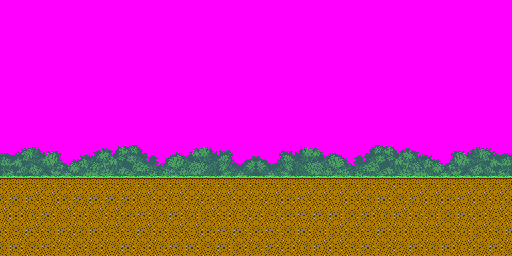
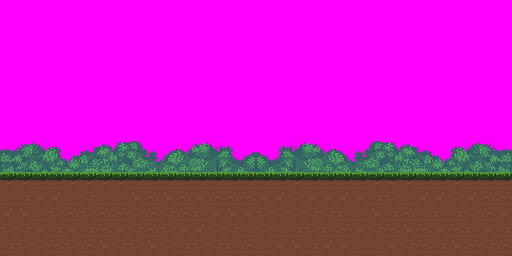
Suelo con banda de hierba gruesa y pies hundidos 4 px
- Nuevo tileset Sidescroller de Pixellab con una banda de hierba de ~8 px. Con la raya
  de 2 px anterior el perro parecia flotar: su arte es una vista lateral un poco
  elevada (patas lejanas 3 px mas arriba que las cercanas).
- preparar_suelo.py: ancla la primera fila LLENA de la banda (las briznas sueltas
  asoman por encima) en SUELO_Y - hundir; --hundir 4 por defecto, asi los pies (fila
  175) quedan dentro de la hierba. Sin hoja explicita usa el PNG mas reciente de la
  carpeta. 2 pruebas nuevas (matas y hundimiento); scripts 24/24.
- res/nivel1/fondo_cerca.png regenerada: banda desde la fila 172, 15 colores +
  transparente, ~309 tiles. SUELO_Y y la fisica no cambian.
- Verificado en Mesen: Tarou de pie con las patas dentro de la banda. Caminar no se
  pudo comprobar: el script de capturas perdio las flechas con el equipo en uso.
- Documentacion: spec (5 y 8), mapa de archivos, CLAUDE.md y README del suelo.

diff --git a/scripts/preparar_suelo.py b/scripts/preparar_suelo.py
@@ -9,8 +9,11 @@
       16x16 con muchas piezas de plataforma. Para un suelo plano bastan dos
       tipos: el BORDE (filas de arriba vacías, hierba, tierra debajo) y la
       TIERRA (un tile opaco). Este script los encuentra solo, pinta con ellos
-      una franja de suelo de 512 px de ancho cuya hierba empieza exactamente en
-      la fila SUELO_Y del juego, rellena de tierra hasta abajo y varía la
+      una franja de suelo de 512 px de ancho cuya banda de hierba empieza en la
+      fila SUELO_Y del juego menos HUNDIR píxeles (los pies del protagonista
+      quedan DENTRO de la hierba, no posados sobre su borde: el arte de
+      Pixellab es una vista lateral un poco elevada y sus patas lejanas acaban
+      3 px más arriba que las cercanas), rellena de tierra hasta abajo y varía la
       tierra con volteos (gratis en el mapa de la SNES) para que no se vean
       franjas. Opcionalmente pone detrás los arbustos del título subidos, como
       un seto. El resultado es una imagen indexada de 15 colores + transparente
@@ -37,10 +40,12 @@
       ALTO       int   256 px   alto de la imagen (224 visibles + relleno para -y)
       VISIBLE    int   224 px   filas que se ven en pantalla
       SEMILLA    int   2026     semilla fija de la variación (salida reproducible)
+      HUNDIR     int   4 px     cuánto se hunden los pies en la hierba (opción --hundir)
 
     Uso (desde la raíz del repo):
       python scripts/preparar_suelo.py --seto res/titulo/fondo_cerca.png
-      python scripts/preparar_suelo.py RUTA_HOJA.png --suelo 176 --salida res/nivel1/fondo_cerca.png
+      python scripts/preparar_suelo.py RUTA_HOJA.png --suelo 176 --hundir 4 --salida res/nivel1/fondo_cerca.png
+      Sin RUTA_HOJA usa el PNG MÁS RECIENTE de res/descargas/graficos/pixellab/suelo/.
     → glosario: Tile, Tilemap, Paleta, Parallax, Suelo
 ---------------------------------------------------------------------------------
 """
@@ -60,6 +65,7 @@ ANCHO = 512
 ALTO = 256
 VISIBLE = 224
 SEMILLA = 2026
+HUNDIR = 4
 CARPETA = Path("res/descargas/graficos/pixellab/suelo")
 
 
@@ -119,16 +125,22 @@ def reducir(colores: list, n: int) -> list:
 
 # --- 3. Todo junto -------------------------------------------------------------------
 
-def preparar(hoja_ruta: Path, salida: Path, suelo_y: int = 176, seto: Path | None = None) -> None:
-    """Escribe la capa cercana: (seto) + borde con la hierba en la fila suelo_y +
-    tierra variada hasta abajo. No escribe nada si la hoja no tiene bordes o tierra."""
+def preparar(hoja_ruta: Path, salida: Path, suelo_y: int = 176, seto: Path | None = None,
+             hundir: int = 0) -> None:
+    """Escribe la capa cercana: (seto) + borde con la banda de hierba empezando en la
+    fila suelo_y - hundir + tierra variada hasta abajo. No escribe nada si la hoja
+    no tiene bordes o tierra."""
     with Image.open(hoja_ruta) as im:
         hoja = im.convert("RGBA")
     bordes, tierras = clasificar(hoja)
     if not bordes or not tierras:
         sys.exit(f"ERROR: {hoja_ruta} no tiene tiles de borde (hierba sobre tierra) o de tierra "
                  f"opaca de {T}x{T}. ¿Es una exportación Sidescroller? No se escribió nada.")
-    r0 = min(next(y for y, n in enumerate(opacos(t)) if n) for t in bordes)   # primera fila con hierba
+    # Fila del tile donde empieza la BANDA de hierba: la primera fila llena (16 píxeles
+    # opacos) en todos los tiles de la tira. Las briznas sueltas de más arriba no
+    # cuentan: asoman por encima del suelo, como en el arte.
+    r0 = max(next(y for y, n in enumerate(opacos(t)) if n == T) for t in bordes)
+    arriba = suelo_y - hundir                          # fila de pantalla donde empieza la banda
 
     capa = Image.new("RGBA", (ANCHO, ALTO), (0, 0, 0, 0))
     colores_seto = []
@@ -144,11 +156,11 @@ def preparar(hoja_ruta: Path, salida: Path, suelo_y: int = 176, seto: Path | Non
                 arbustos.putalpha(Image.eval(indices, lambda i: 255 if i else 0))
         caja = arbustos.getchannel("A").getbbox()
         if caja:
-            subir = caja[3] - (suelo_y + T)
+            subir = caja[3] - (arriba + T)
             capa.alpha_composite(arbustos.crop((0, subir, arbustos.width, arbustos.height)), (0, 0))
             colores_seto = sorted({p[:3] for p in (arbustos.get_flattened_data() if hasattr(arbustos, "get_flattened_data") else arbustos.getdata()) if p[3] > 0})
 
-    y_borde = suelo_y - r0                             # la fila r0 del tile cae en suelo_y
+    y_borde = arriba - r0                              # la fila r0 del tile cae en "arriba"
     for k in range(ANCHO // T):
         capa.alpha_composite(bordes[k % len(bordes)], (k * T, y_borde))
     azar = random.Random(SEMILLA)
@@ -162,23 +174,25 @@ def preparar(hoja_ruta: Path, salida: Path, suelo_y: int = 176, seto: Path | Non
         y += T
 
     # Paleta: el seto conserva sus colores; el suelo se reduce a lo que quede de 15.
-    suelo = capa.crop((0, suelo_y, ANCHO, VISIBLE))
+    suelo = capa.crop((0, arriba - r0, ANCHO, VISIBLE))   # con las briznas
     datos = suelo.get_flattened_data() if hasattr(suelo, "get_flattened_data") else suelo.getdata()
     colores_suelo = reducir([p[:3] for p in datos if p[3] > 0], pp.COLORES - len(colores_seto))
     colores = colores_seto + [c for c in colores_suelo if c not in colores_seto]
     salida.parent.mkdir(parents=True, exist_ok=True)
     pp.indexar(capa, colores).save(salida, format="PNG")
     print(f"  {salida}  {ANCHO}x{ALTO}; borde de {len(bordes)} tiles, {len(tierras)} de tierra; "
-          f"hierba en la fila {suelo_y}; {len(colores)} colores + transparente"
+          f"banda de hierba desde la fila {arriba} (pies en {suelo_y - 1}, hundidos {hundir}); "
+          f"{len(colores)} colores + transparente"
           + (f" (seto: {len(colores_seto)})" if colores_seto else ""))
 
 
 def main() -> int:
     ap = argparse.ArgumentParser(description="Capa cercana del nivel 1: suelo de Pixellab (+ seto).")
     ap.add_argument("hoja", type=Path, nargs="?", default=None,
-                    help=f"hoja de tiles de Pixellab (por defecto, el primer PNG de {CARPETA})")
+                    help=f"hoja de tiles de Pixellab (por defecto, el PNG más reciente de {CARPETA})")
     ap.add_argument("--salida", type=Path, default=Path("res/nivel1/fondo_cerca.png"))
-    ap.add_argument("--suelo", type=int, default=176, help="fila donde empieza la hierba (SUELO_Y del juego)")
+    ap.add_argument("--suelo", type=int, default=176, help="SUELO_Y del juego: los pies acaban en la fila anterior")
+    ap.add_argument("--hundir", type=int, default=HUNDIR, help="píxeles que los pies se hunden en la hierba")
     ap.add_argument("--seto", type=Path, default=None, help="arbustos a poner detrás (p. ej. res/titulo/fondo_cerca.png)")
     args = ap.parse_args()
     hoja = args.hoja
@@ -186,9 +200,9 @@ def main() -> int:
         pngs = sorted(CARPETA.glob("*.png"))
         if not pngs:
             sys.exit(f"ERROR: no hay ningún PNG en {CARPETA}")
-        hoja = pngs[0]
+        hoja = max(pngs, key=lambda p: p.stat().st_mtime)   # la última exportación
     print(f"[suelo] hoja: {hoja}")
-    preparar(hoja, args.salida, args.suelo, args.seto)
+    preparar(hoja, args.salida, args.suelo, args.seto, args.hundir)
     return 0
 
 

diff --git a/scripts/pruebas/prueba_preparar_suelo.py b/scripts/pruebas/prueba_preparar_suelo.py
@@ -30,10 +30,13 @@ PIEDRA = (150, 150, 150, 255)
 OSCURO = (70, 40, 10, 255)
 
 
-def hoja_falsa(ruta: Path, con_borde: bool = True) -> None:
+def hoja_falsa(ruta: Path, con_borde: bool = True, matas: bool = False) -> None:
     """Hoja de 8x4 tiles: BORDE en la fila 3 (columnas 0..3) y TIERRA en la fila 0
     (columnas 6 y 7, con una piedra en la esquina para que los volteos se noten).
-    El resto, transparente o con formas que no son ni borde ni tierra."""
+    El resto, transparente o con formas que no son ni borde ni tierra. Con
+    matas=True, algunas columnas del borde tienen briznas sueltas en las filas 5..7
+    del tile, por encima de la banda llena (como la hoja de Pixellab con hierba
+    gruesa)."""
     im = Image.new("RGBA", (8 * T, 4 * T), (0, 0, 0, 0))
     d = ImageDraw.Draw(im)
     if con_borde:
@@ -41,6 +44,8 @@ def hoja_falsa(ruta: Path, con_borde: bool = True) -> None:
             x = c * T
             d.rectangle((x, 3 * T + 8, x + T - 1, 3 * T + 9), fill=VERDE)       # hierba: filas 8..9
             d.rectangle((x, 3 * T + 10, x + T - 1, 4 * T - 1), fill=MARRON)     # tierra: filas 10..15
+            if matas:
+                d.rectangle((x + 3, 3 * T + 5, x + 3, 3 * T + 7), fill=VERDE)    # brizna: filas 5..7
     for c in (6, 7):
         x = c * T
         d.rectangle((x, 0, x + T - 1, T - 1), fill=MARRON)
@@ -126,6 +131,28 @@ class PruebasPrepararSuelo(unittest.TestCase):
         a = self.salida.read_bytes()
         ps.preparar(self.hoja, self.salida, suelo_y=176)
         self.assertEqual(a, self.salida.read_bytes())
+
+    def test_matas_sobre_la_banda(self):
+        """Las briznas sueltas que asoman por encima de la hierba no cuentan: lo que
+        cae en la fila del suelo es la primera fila LLENA de la banda."""
+        hoja_falsa(self.hoja, matas=True)
+        ps.preparar(self.hoja, self.salida, suelo_y=176)
+        with Image.open(self.salida) as im:
+            px = im.load()
+            primera_llena = next(y for y in range(224) if all(px[x, y] for x in range(512)))
+            self.assertEqual(primera_llena, 176)
+            self.assertTrue(any(px[x, 173] for x in range(512)))     # las briznas, por encima
+
+    def test_hundir(self):
+        """Con hundir=4 la banda de hierba empieza 4 px por encima de la fila del
+        suelo: los pies del protagonista (que acaban en suelo_y - 1) quedan dentro
+        de la hierba y no posados sobre su borde. Hace falta porque el arte de
+        Pixellab es una vista lateral un poco elevada."""
+        ps.preparar(self.hoja, self.salida, suelo_y=176, hundir=4)
+        with Image.open(self.salida) as im:
+            px = im.load()
+            primera_llena = next(y for y in range(224) if all(px[x, y] for x in range(512)))
+            self.assertEqual(primera_llena, 172)
 
     def test_seto_detras_del_suelo(self):
         """Con --seto, los arbustos asoman por ENCIMA del suelo (subidos para que su

diff --git a/docs/mapa-de-archivos.md b/docs/mapa-de-archivos.md
@@ -148,7 +148,7 @@ salidas (`.pic` tiles, `.pal` paleta, `.map` mapa, `.inc`/`_meta.inc` tablas,
 | `res/intro/escena_1.png`, `escena_2.png`, `escena_3.png` | Fondos de la intro: 1 y 2 de 256 colores (Mode 3, imagen 256×120 arriba), 3 de 16 colores. | `componer_escenas.py` | Makefile, `data.asm`, `pantalla_intro.c` |
 | `res/titulo/fondo_cerca.png` (512×256), `fondo_lejos.png` (256×224), `cielo.bmp` | Capas del título (cercana en bucle para scroll, lejana con el logotipo "TAROU" horneado) y el degradado del cielo (una fila de color por línea). | `componer_escenas.py` | Makefile (`-y` para la cercana, `-n` para el cielo), `data.asm`, `pantalla_titulo.c`; la cercana también la usa el nivel |
 | `res/nivel1/fondo_lejos.png` (512×256) | Capa lejana del nivel: la del título sin logotipo, en espejo hasta 512 px, rellena hasta 256 de alto (`gfx4snes -y` lo exige). | `scripts/preparar_fondo_nivel.py` | Makefile (`-y -e 2`), `data.asm` (`nivel1_lejos_*`), `pantalla_nivel1.c` |
-| `res/nivel1/fondo_cerca.png` (512×256) | Capa cercana del nivel: el suelo del tileset Sidescroller de Pixellab (hierba en la fila 176, tierra variada con volteos) con el seto de arbustos detrás; 13 colores + transparente. | `scripts/preparar_suelo.py --seto res/titulo/fondo_cerca.png` | Makefile (`-y -e 1`), `data.asm` (`.rodata_nivel1_cerca`), `pantalla_nivel1.c` (BG0) |
+| `res/nivel1/fondo_cerca.png` (512×256) | Capa cercana del nivel: el suelo del tileset Sidescroller de Pixellab (banda de hierba desde la fila 172, 4 px por encima de los pies; tierra variada con volteos) con el seto de arbustos detrás; 15 colores + transparente. | `scripts/preparar_suelo.py --seto res/titulo/fondo_cerca.png` | Makefile (`-y -e 1`), `data.asm` (`.rodata_nivel1_cerca`), `pantalla_nivel1.c` (BG0) |
 | `res/personajes/tarou/tarou_reposo.png`, `tarou_caminar.png`, `tarou_correr.png`, `tarou_saltar.png`, `tarou_caer.png`, `tarou_agachado.png`, `tarou_agachado_caminar.png`, `tarou_desenvainar.png`, `tarou_envainar.png`, `tarou_atacar.png`, `tarou_echarse.png`, `tarou_dormido.png`, `tarou_despertar.png`, `tarou_reposo_estatico.png`, `tarou_anim.h` | Tiras de 96×64 por cuadro de las 13 animaciones de Tarou, una sola paleta (arte real de Pixellab desde el 2026-10-19), la tira estática de reposo (siempre 2 cuadros elegidos del reposo real, para intro y título) y el header con la cantidad de cuadros. | `scripts/preparar_personaje.py tarou` | Makefile (`-s 32 -T -X 96 -Y 64 -P 3`), `data.asm` (14 secciones), `tarou_sprite.c` (`_meta.inc`), `animaciones.c` (`tarou_anim.h`), `personajes.c` (`tarou_reposo_estatico`) |
 | `res/personajes/barbara_samurai.png` | Bárbara (samurái del pack), tira de cuadros de 64×64. | `scripts/preparar_sprites.py` | Makefile (`-s 64`), `data.asm`, `personajes.c` |
 | `res/personajes/lobo_samurai.png` | El lobo samurái del pack: antes era Tarou; futuro enemigo. Se convierte pero **no va en la ROM**. | `preparar_sprites.py` | Makefile (regla conservada) |
@@ -165,7 +165,7 @@ salidas (`.pic` tiles, `.pal` paleta, `.map` mapa, `.inc`/`_meta.inc` tablas,
 | `preparar_sprites.py` | Corta una tira de cuadros, la centra en celdas (64×64 por defecto) y la reduce a 15 colores + transparente (índice 0). Es el script de Bárbara y del lobo. | tira → `res/personajes/*.png` |
 | `preparar_personaje.py` | El pipeline de Tarou (y de Bárbara en la Revisión 2): lee la exportación nativa de Pixellab (con `MAPEOS_PIXELLAB`: de qué estado, dirección y tramo sale cada animación, y si va al revés; ancla sin escalar en celdas de 96×64) o tiras PNG, carpetas de cuadros o GIF, alinea con una caja común, cuantiza **todas** las animaciones a una sola paleta, genera marcadores para las que faltan, rechaza más de 15 cuadros y escribe `tarou_anim.h`. | `res/descargas/graficos/pixellab/tarou/` → `res/personajes/tarou/` |
 | `preparar_fondo_nivel.py` | Borra una caja (el logotipo) de la capa lejana del título, la duplica en espejo a 512 px y la rellena hasta 256 de alto. | `res/titulo/fondo_lejos.png` → `res/nivel1/fondo_lejos.png` |
-| `preparar_suelo.py` | Construye la capa cercana del nivel desde el tileset Sidescroller de Pixellab: encuentra solo los tiles de borde (hierba sobre tierra) y de tierra, pinta 512 px con la hierba en `SUELO_Y`, varía la tierra con volteos (semilla fija) y, con `--seto`, pone detrás los arbustos del título. | Lee `res/descargas/graficos/pixellab/suelo/*.png`; escribe `res/nivel1/fondo_cerca.png`; usa `preparar_personaje.indexar`. | ninguno |
+| `preparar_suelo.py` | Construye la capa cercana del nivel desde el tileset Sidescroller de Pixellab: encuentra solo los tiles de borde (hierba sobre tierra) y de tierra, pinta 512 px con la banda de hierba en `SUELO_Y − hundir` (4 px por defecto: los pies quedan dentro de la hierba; ancla la primera fila llena, no las briznas), varía la tierra con volteos (semilla fija) y, con `--seto`, pone detrás los arbustos del título. | Lee `res/descargas/graficos/pixellab/suelo/*.png`; escribe `res/nivel1/fondo_cerca.png`; usa `preparar_personaje.indexar`. | ninguno |
 | `pruebas/prueba_preparar_personaje.py`, `pruebas/prueba_preparar_fondo_nivel.py`, `pruebas/prueba_preparar_suelo.py` | Pruebas `unittest` de los tres scripts anteriores (`python -m unittest scripts/pruebas/...`). | — |
 | `capturar_mesen.ps1` | Verificación sin manos: lanza Mesen a velocidad 100 % sin guardar ajustes, lo activa una vez, le da el foco al visor con un clic por mensaje, aparta la ventana fuera de la pantalla, "pulsa" teclas por `PostMessage` según un guion (`-Guion "desde,hasta,tecla;..."`) y guarda capturas con `PrintWindow` cada N segundos. | `ProyectoSNES.sfc` → `scripts/capturas/frame_*.png` |
 | `capturas_mesen.lua`, `mando_nivel.lua` | Scripts Lua para Mesen: capturas y mando por guion. **Solo a mano** desde Debug → Script Window: MesenCE 2.2.1 no carga la ROM si recibe un `.lua` por línea de comandos y bloquea la E/S de Lua. | — |

diff --git a/CLAUDE.md b/CLAUDE.md
@@ -49,7 +49,7 @@ $env:PVSNESLIB_HOME="/e/ProyectoSNES/tools/pvsneslib"; $env:PATH="E:\ProyectoSNE
 
 The equivalent VS Code tasks (`.vscode/tasks.json`) run these same `make` invocations through `C:\msys64\usr\bin\bash.exe`: **"Build SNES ROM"** (default build task, `Ctrl+Shift+B`; it only compiles, it does not launch Mesen) and **"Clean Project"**.
 
-What the current ROM does when run (Revisión 1, 2026-10-19): the boot sequence (Nintendo → publisher → devs → dedication → 3-scene intro → title with parallax; the title appears at ~50 s and loops to the intro after 15 s without input), then Start on the title enters **level 1**: Tarou (adult husky, the real Pixellab art in 96x64 cells; the attack is a fixed pose until an attack animation is generated) walks, runs (Y), jumps with variable height (B), crouches and crouch-walks (Down), unsheathes/sheathes the sword (R), attacks (A), and falls asleep after 10 s idle; the camera follows across a 512 px flat level (Pixellab ground with a hedge behind, grass at row 176) with parallax; SELECT toggles the debug HUD (position, velocity, state, camera, hitbox, frame counter and scanline cost meter); START returns to the title. Design: `docs/diseno-demo-jugable.md`. Keyboard mapping of Mesen on this machine: arrows, A=S, B=A, X=X, Y=Z, L=Q, R=W, Start=D, Select=E (`docs/mesen-y-depuracion.md`). The capture script forces `EmulationSpeed=100` and `AllowBackgroundInput=true` on the command line; neither is saved to the author's settings. The scripted keys can still be lost (Mesen's focus jumps to its menu bar) while the author uses the PC: the reliable condition is to leave the PC alone during a run; the effect of `AllowBackgroundInput` is not proven.
+What the current ROM does when run (Revisión 1, 2026-10-19): the boot sequence (Nintendo → publisher → devs → dedication → 3-scene intro → title with parallax; the title appears at ~50 s and loops to the intro after 15 s without input), then Start on the title enters **level 1**: Tarou (adult husky, the real Pixellab art in 96x64 cells; the attack is a fixed pose until an attack animation is generated) walks, runs (Y), jumps with variable height (B), crouches and crouch-walks (Down), unsheathes/sheathes the sword (R), attacks (A), and falls asleep after 10 s idle; the camera follows across a 512 px flat level (Pixellab ground with a hedge behind, feet 4 px into the grass band) with parallax; SELECT toggles the debug HUD (position, velocity, state, camera, hitbox, frame counter and scanline cost meter); START returns to the title. Design: `docs/diseno-demo-jugable.md`. Keyboard mapping of Mesen on this machine: arrows, A=S, B=A, X=X, Y=Z, L=Q, R=W, Start=D, Select=E (`docs/mesen-y-depuracion.md`). The capture script forces `EmulationSpeed=100` and `AllowBackgroundInput=true` on the command line; neither is saved to the author's settings. The scripted keys can still be lost (Mesen's focus jumps to its menu bar) while the author uses the PC: the reliable condition is to leave the PC alone during a run; the effect of `AllowBackgroundInput` is not proven.
 
 Tests: the pure game logic has a PC test suite (gcc, 195 checks) and the asset scripts have `unittest` tests. Run before every commit that touches `src/juego/` or `scripts/`:
 ```
@@ -60,7 +60,7 @@ Mesen verification without hands (window captures every N seconds, optionally st
 ```
 .\scripts\capturar_mesen.ps1 -Duracion 70 -Cada 1 -Espera 4 -Guion "55,55.3,Start;57,57.3,Select;58,61,Right"
 ```
-Asset pipeline (outputs are versioned): `python scripts/preparar_personaje.py tarou` (the native Pixellab export in `res/descargas/graficos/pixellab/tarou/`, mapped by `MAPEOS_PIXELLAB`, to 96x64 strips + `tarou_anim.h`), `python scripts/componer_escenas.py` (boot-sequence backgrounds), `python scripts/preparar_fondo_nivel.py res/titulo/fondo_lejos.png res/nivel1/fondo_lejos.png --borrar 71,22,185,76`, `python scripts/preparar_suelo.py --seto res/titulo/fondo_cerca.png` (level 1 ground from the Pixellab Sidescroller tileset in `res/descargas/graficos/pixellab/suelo/`, grass at `SUELO_Y` = 176, title bushes behind as a hedge).
+Asset pipeline (outputs are versioned): `python scripts/preparar_personaje.py tarou` (the native Pixellab export in `res/descargas/graficos/pixellab/tarou/`, mapped by `MAPEOS_PIXELLAB`, to 96x64 strips + `tarou_anim.h`), `python scripts/componer_escenas.py` (boot-sequence backgrounds), `python scripts/preparar_fondo_nivel.py res/titulo/fondo_lejos.png res/nivel1/fondo_lejos.png --borrar 71,22,185,76`, `python scripts/preparar_suelo.py --seto res/titulo/fondo_cerca.png` (level 1 ground from the Pixellab Sidescroller tileset in `res/descargas/graficos/pixellab/suelo/`, the grass band starts 4 px above `SUELO_Y` = 176 so the feet sink into it (`--hundir`), title bushes behind as a hedge; it takes the newest PNG of that folder).
 
 There is no linter; `.clang-format` holds the house style.
 

diff --git a/docs/diseno-demo-jugable.md b/docs/diseno-demo-jugable.md
@@ -153,11 +153,14 @@ Reglas transversales:
   → recortar x a [0, 416] (`ANCHO_NIVEL − ANCHO_CELDA`) → aterrizaje (si
   `y_pix + 64 >= suelo`: `y = suelo − ALTO_CELDA`, `vy = 0`, `en_suelo = 1`)
   → avanzar animación.
-- **Suelo:** `nivel_suelo_en(x_pix)` devuelve hoy la constante `SUELO_Y = 176`,
-  la fila donde empieza la hierba de la capa cercana (antes 208, sobre los
-  arbustos; cambiado el 2026-10-19 al llegar el suelo de Pixellab: 48 px de
-  tierra visibles). La última fila del cuadro es la planta de las patas:
-  `y_celda = suelo − 64`, así que los pies quedan en la fila 175.
+- **Suelo:** `nivel_suelo_en(x_pix)` devuelve hoy la constante `SUELO_Y = 176`
+  (antes 208, sobre los arbustos; cambiado el 2026-10-19 al llegar el suelo de
+  Pixellab). La última fila del cuadro es la planta de las patas:
+  `y_celda = suelo − 64`, así que los pies quedan en la fila 175. La banda de
+  hierba de la capa cercana empieza **4 px más arriba**, en la 172: el arte de
+  Pixellab es una vista lateral un poco elevada (las patas lejanas acaban 3 px
+  más arriba que las cercanas) y, con la hierba justo debajo de los pies, el
+  perro parecía flotar sobre una raya. Hundidos 4 px, pisa el terreno.
 - **Cajas** (coordenadas relativas a la celda de 96×64, medidas sobre el arte
   de Pixellab el 2026-10-19: el perro mide unos 64×58 de pie y 46 de alto
   agachado, centrado en la celda):
@@ -223,12 +226,14 @@ Reglas transversales:
 - **Capa cercana (BG0):** el **suelo**, `res/nivel1/fondo_cerca.png`
   (`nivel1_cerca_*`), 512 px en `SC_64x32`, paleta 1, en `VRAM_FONDO_A` /
   `VRAM_MAPA_A`. Scroll 1:1. La genera `scripts/preparar_suelo.py` a partir
-  del tileset *Sidescroller* de Pixellab (Create Tileset, tiles de 16×16): toma
-  la tira más larga de tiles de borde (hierba sobre tierra) y los tiles de
-  tierra opaca, pone la hierba en la fila `SUELO_Y`, rellena de tierra hasta
-  abajo variando cada celda con volteos (semilla fija) para que no se vean
-  franjas, y deja detrás los arbustos del título subidos como un seto
-  (`--seto`). 13 colores + transparente; unos 243 tiles de 8×8 en VRAM.
+  del tileset *Sidescroller* de Pixellab (Create Tileset, tiles de 16×16, banda
+  de hierba gruesa: unos 8 px más un borde oscuro): toma la tira más larga de
+  tiles de borde (hierba sobre tierra) y los tiles de tierra opaca, pone la
+  primera fila llena de la banda en `SUELO_Y − 4` (`--hundir`, ver §5; las
+  briznas sueltas asoman por encima), rellena de tierra hasta abajo variando
+  cada celda con volteos (semilla fija) para que no se vean franjas, y deja
+  detrás los arbustos del título subidos como un seto (`--seto`). 15 colores +
+  transparente (12 del suelo, 3 del seto); unos 309 tiles de 8×8 en VRAM.
 - **Capa lejana (BG1):** `res/nivel1/fondo_lejos.png`, derivada del título por
   `scripts/preparar_fondo_nivel.py` (borra el logo horneado y duplica en espejo
   hasta 512 px), paleta 2, `SC_64x32` en `VRAM_FONDO_B` / `VRAM_MAPA_B`

diff --git a/res/descargas/graficos/pixellab/suelo/README.md b/res/descargas/graficos/pixellab/suelo/README.md
@@ -7,7 +7,7 @@ lo que pongas aquí salvo este README. Después, desde la raíz del repositorio:
 python scripts/preparar_suelo.py --seto res/titulo/fondo_cerca.png
 ```
 
-El script toma el primer PNG de esta carpeta y escribe
+El script toma el PNG **más reciente** de esta carpeta y escribe
 `res/nivel1/fondo_cerca.png`, la capa cercana del nivel 1. Después, `make` (o
 `run.bat`).
 
@@ -15,9 +15,13 @@ El script toma el primer PNG de esta carpeta y escribe
 
 1. **Create Tileset**, pestaña **Standard**, tipo **Sidescroller**.
 2. Interior de la plataforma: `packed brown earth with small stones, simple
-   shading`. Superficie superior: `short green grass edge, few tufts`.
-3. **Tile size 16×16**, **transition size 0**, grosor de plataforma medio,
-   detalle y sombreado bajos.
+   shading`. Superficie superior (segunda versión, la que se usa): una banda
+   de hierba gruesa vista un poco desde arriba, de 8 a 12 px, con matas y el
+   borde delantero más oscuro. La primera versión (`short green grass edge,
+   few tufts`, transition size 0) daba una raya de 2 px y el perro parecía
+   flotar.
+3. **Tile size 16×16**, **transition size** subido, grosor de plataforma
+   medio, detalle y sombreado bajos.
 4. Exportar la hoja (se usó la de Godot; vale cualquiera que traiga los tiles
    de 16×16 en rejilla).
 
@@ -27,7 +31,11 @@ El script toma el primer PNG de esta carpeta y escribe
   sobre tierra). Usa la tira horizontal más larga, en su orden, y la repite.
 - **Tierra**: tiles totalmente opacos y sin verde. Los reparte con volteos
   horizontales y verticales (semilla fija) para que no se vean franjas.
-- La hierba empieza en la fila **176** (`SUELO_Y` del juego, `--suelo`).
+- La **primera fila llena** de la banda de hierba (las briznas sueltas de
+  encima no cuentan) cae en la fila **172**: `SUELO_Y` (176, `--suelo`) menos
+  `--hundir` (4). Los pies de Tarou acaban en la 175, dentro de la hierba: su
+  arte es una vista lateral un poco elevada y, con la hierba justo debajo,
+  parecía flotar.
 - `--seto` pone detrás los arbustos del título, subidos para que asomen por
   encima del suelo. Sin la opción, el horizonte queda despejado.
 
@@ -37,4 +45,4 @@ El script toma el primer PNG de esta carpeta y escribe
   script reduce los de la tierra si hace falta.
 - Fondo **transparente de verdad** (sin semitransparencias): por encima de la
   hierba se ven las montañas y el cielo.
-- La capa cabe en unos 512 tiles de 8×8 (hoy usa ~243).
+- La capa cabe en unos 512 tiles de 8×8 (hoy usa ~309).
